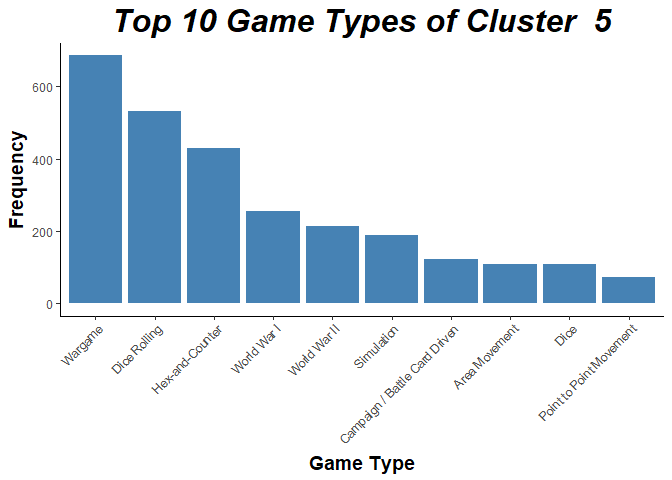
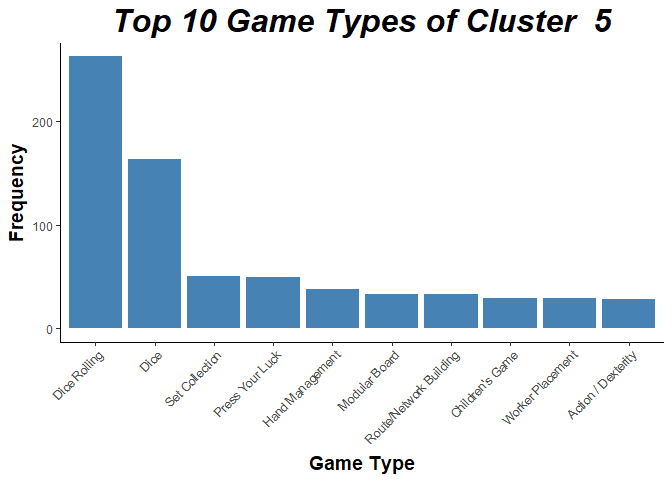
update Method

diff --git a/README.md b/README.md
@@ -3,7 +3,7 @@ Board Game
 Jui-Ying Hsieh, Li-Hsin Chen
 
 1. Background
-=============
+-------------
 
 We enjoying playing baord games. We have collected more than 20 types of board games, and the number is still growing. We like to explore games, but play one new games after another blindly is not smart. There are evidence shown that more and more games are being created; 1600 games released in the last five years, while only 1086 games released in the 19th century. To explore games efficiently, we frequently visit the famous board game website BoardGameGeek (BGG). There is a comprehensive list of games including their rankings. Our approach to explore games is to review their rankings. We did actually find enjoyable games such as Agricola, Peurto Rico and Pandemic.
 
@@ -14,9 +14,45 @@ Hence, we grabbed the data from BGG, and tried to build a board game reference s
 3. Method
 ---------
 
-#### 3.1 Expand Mechanic and Category Variables
+Several fantastic algorithms have been invented and widely used in building a recommendation system in the past few years. The choice of algorithms highly depepends on the data used for the system. Based on the data we have, we choose [item-based collaborative filtering](https://en.wikipedia.org/wiki/Item-item_collaborative_filtering) method. In this method, recommendation is made by the similarity of items among each others, that is, how similar they are according to their features.
 
-Variables Mechanic and Category
+Dataset is obtained from [Kaggle](https://www.kaggle.com/mrpantherson/board-game-data#bgg_db_2018_01.csv). This dataset contains many interesting features of about 5,000 boardgames. These feature includes:
+
+``` r
+colnames(boardgame)
+```
+
+    ##  [1] "rank"        "bgg_url"     "game_id"     "names"       "min_players"
+    ##  [6] "max_players" "avg_time"    "min_time"    "max_time"    "year"       
+    ## [11] "avg_rating"  "geek_rating" "num_votes"   "image_url"   "age"        
+    ## [16] "mechanic"    "owned"       "category"    "designer"    "weight"
+
+### 3.1 Expand Mechanic and Category Variables
+
+Before using item-based collaborative filtering, we need to define the similarity between boardgames. We use only "mechanic" and "category" in the definition of similarity. There are 52 different mechanic types and 84 different categories. Hence, 136 (52 + 84) dummy variables are created to represent mechanic and category variables.
+
+``` r
+All_mechanic = unlist(strsplit(boardgame$mechanic, ", "))
+Uniq_mechanic = unique(All_mechanic)
+All_cat = unlist(strsplit(boardgame$category, ", "))
+Uniq_cat = unique(All_cat)
+
+boardgame_cluster <- matrix(0,nrow = dim(boardgame)[1],ncol = length(Uniq_mechanic)+length(Uniq_cat))
+
+for(i in 1:length(Uniq_mechanic)){
+  boardgame_cluster[,i] <- grepl(Uniq_mechanic[i],boardgame$mechanic)*1
+}
+for(i in 1:length(Uniq_cat)){
+  boardgame_cluster[,length(Uniq_mechanic)+i] <- grepl(Uniq_cat[i],boardgame$category)*1
+}
+boardgame_cluster <- as.data.frame(boardgame_cluster)
+colnames(boardgame_cluster)[1:length(Uniq_mechanic)] <- Uniq_mechanic
+colnames(boardgame_cluster)[(1+length(Uniq_mechanic)):136] <- Uniq_cat
+colnames(boardgame_cluster)[50] <- "none_mechanic"
+colnames(boardgame_cluster)[114] <- "none_cat"
+colnames(boardgame_cluster)[26] <- "Memory_mechanic"
+colnames(boardgame_cluster)[117] <- "Memory_cat"
+```
 
 ``` r
 colnames(boardgame_cluster)[1:20]
@@ -99,7 +135,7 @@ plot(bgg_pca,axes = c(1,2),habillage = "ind",col.hab = cluster_result,label = "n
 legend(10,10,1:n_cluster,col = 1:n_cluster,pch = 1,pt.lwd = 4)
 ```
 
-![](README_files/figure-markdown_github/unnamed-chunk-4-1.png)
+![](README_files/figure-markdown_github/unnamed-chunk-5-1.png)
 
 ``` r
 boardgame_cluster_all <- cbind(names = boardgame$names,boardgame_cluster,cluster = cluster_result)
@@ -109,16 +145,16 @@ boardgame_cluster_all %>% group_by(cluster) %>% summarise(n=n())
     ## # A tibble: 10 x 2
     ##    cluster     n
     ##      <dbl> <int>
-    ##  1       1   948
-    ##  2       2   914
-    ##  3       3   531
-    ##  4       4   523
-    ##  5       5   391
-    ##  6       6   262
-    ##  7       7   644
-    ##  8       8   346
-    ##  9       9   251
-    ## 10      10   189
+    ##  1       1   346
+    ##  2       2   921
+    ##  3       3   425
+    ##  4       4   799
+    ##  5       5   310
+    ##  6       6   343
+    ##  7       7   269
+    ##  8       8   328
+    ##  9       9   672
+    ## 10      10   586
 
 ``` r
 #=========================================================================
@@ -147,7 +183,7 @@ ggplot(data = d[1:10,],aes(x = reorder(word,-freq),y = freq)) +
   )
 ```
 
-![](README_files/figure-markdown_github/unnamed-chunk-6-1.png)
+![](README_files/figure-markdown_github/unnamed-chunk-7-1.png)
 
 4. Result
 ---------
